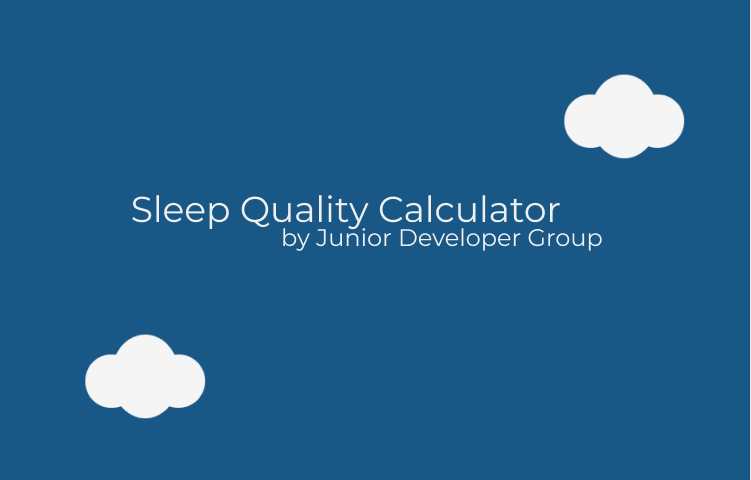
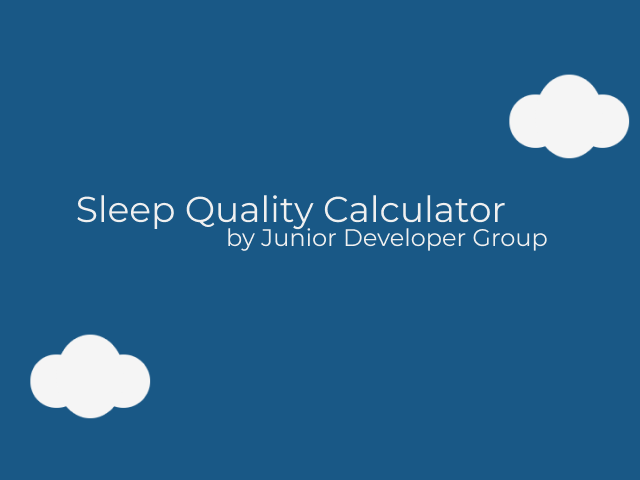
lighthouse changes to images

Changed region(s): [[0.125, 0.4062, 0.8438, 0.5312], [0.75, 0.1562, 1.0, 0.3438], [0.0312, 0.6875, 0.2812, 0.875]]

diff --git a/assets/styles/styles.css b/assets/styles/styles.css
@@ -214,8 +214,6 @@ details p {
 }
 
 .sleep-quality img{
-  height:100%;
-  width: 100%;
   max-height:18em;
  max-width:26em;
  border-radius:0.4em;
@@ -236,8 +234,6 @@ details p {
 }
 
 .tamagotchi img{
-  height:100%;
-  width: 100%;
   max-height:18em;
   max-width:26em;
   border-radius:0.4em;
@@ -583,8 +579,6 @@ footer section a:visited {
     max-width: 75%;
   }
 
-<<<<<<< HEAD
-=======
   .sleep-quality img{
     max-height: 10em;
     max-width: 20em;
@@ -593,7 +587,6 @@ footer section a:visited {
     max-height: 10em;
     max-width: 20em;
   }
->>>>>>> main
 }
 
 /* Medium devices - 960px */
